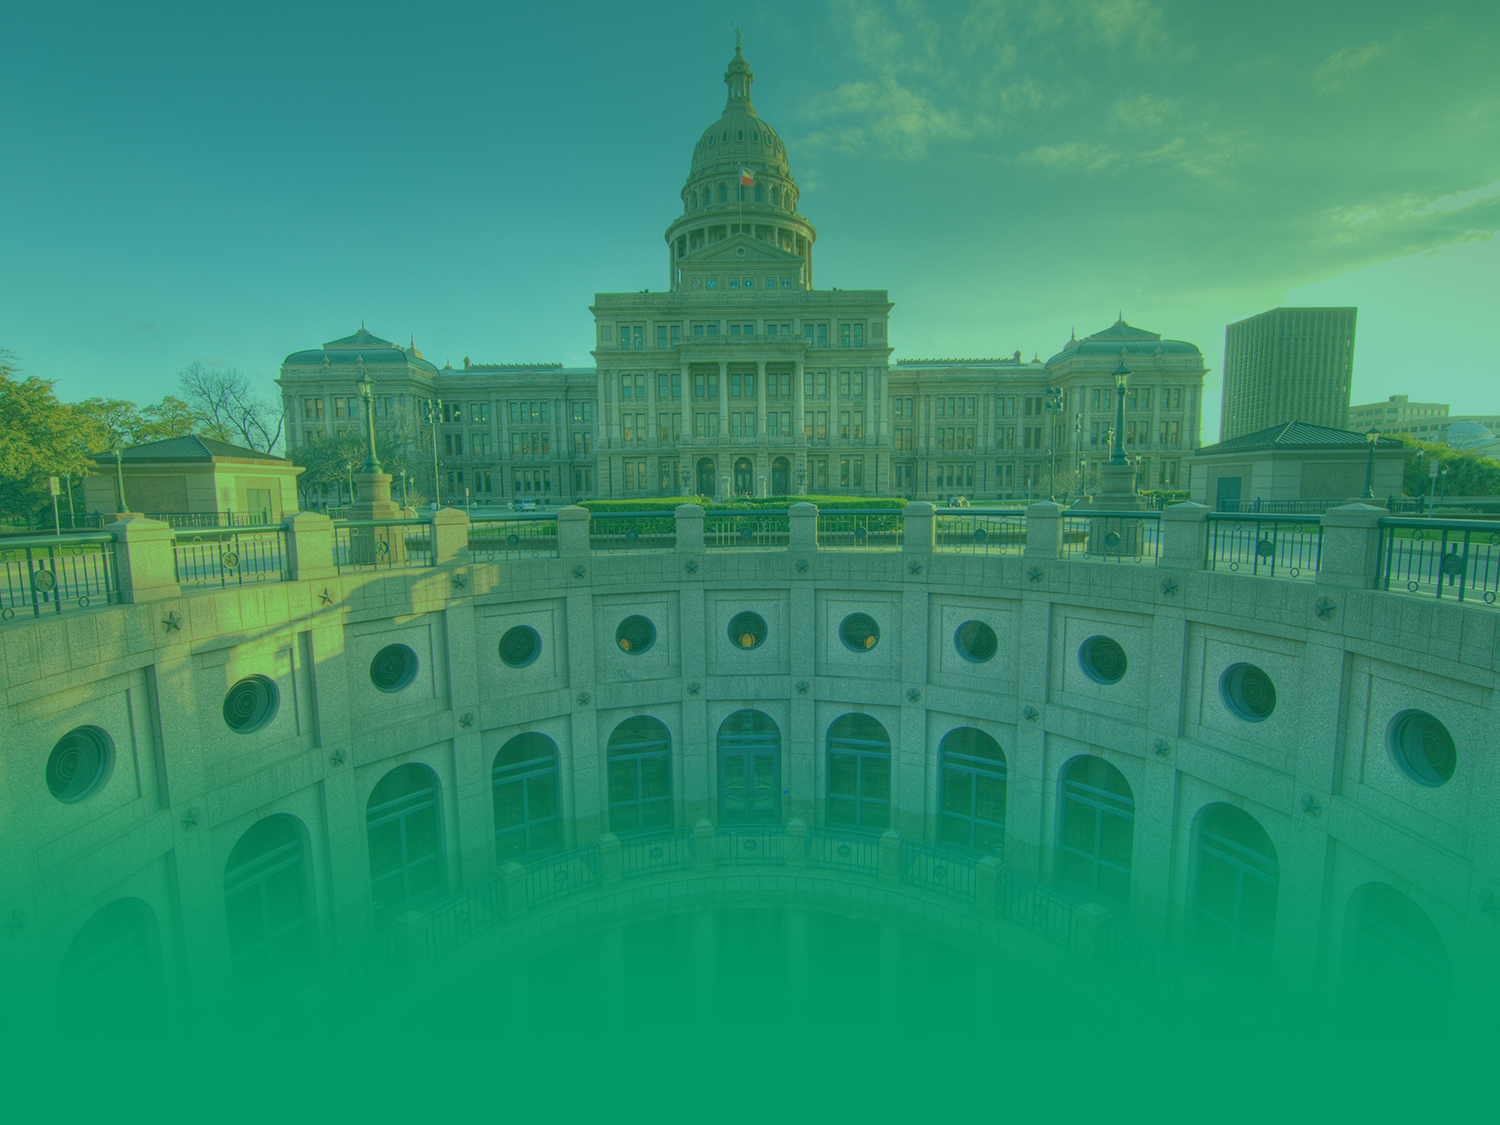
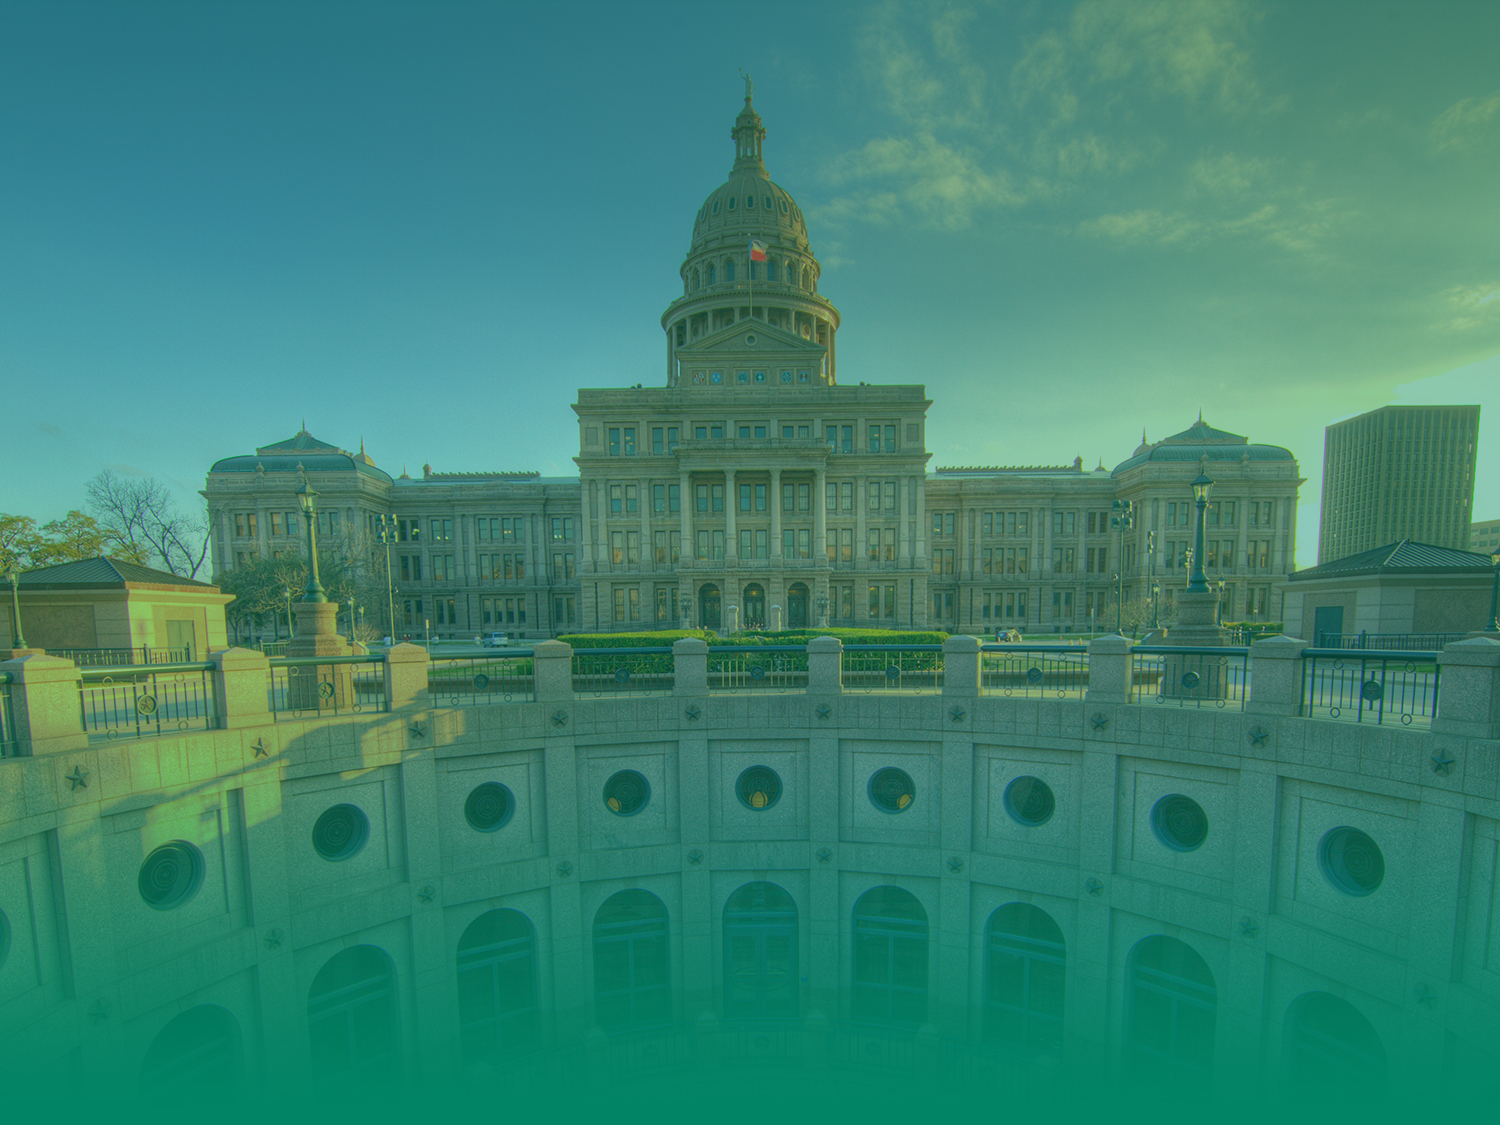
Enlarged bg image, reverted background color to original green

diff --git a/Template/css/grayscale.min.css b/Template/css/grayscale.min.css
@@ -153,7 +153,7 @@
          padding: 0
      }
      .intro .intro-body .brand-heading {
-         font-size: 100px
+         font-size: 70px
      }
      .intro .intro-body .intro-text {
          font-size: 26px

diff --git a/Template/css/styles.css b/Template/css/styles.css
@@ -1,5 +1,5 @@
  body {
-     background-color: #019966;
+     background-color: #008465;
      padding:0;
      margin:0;
  }
